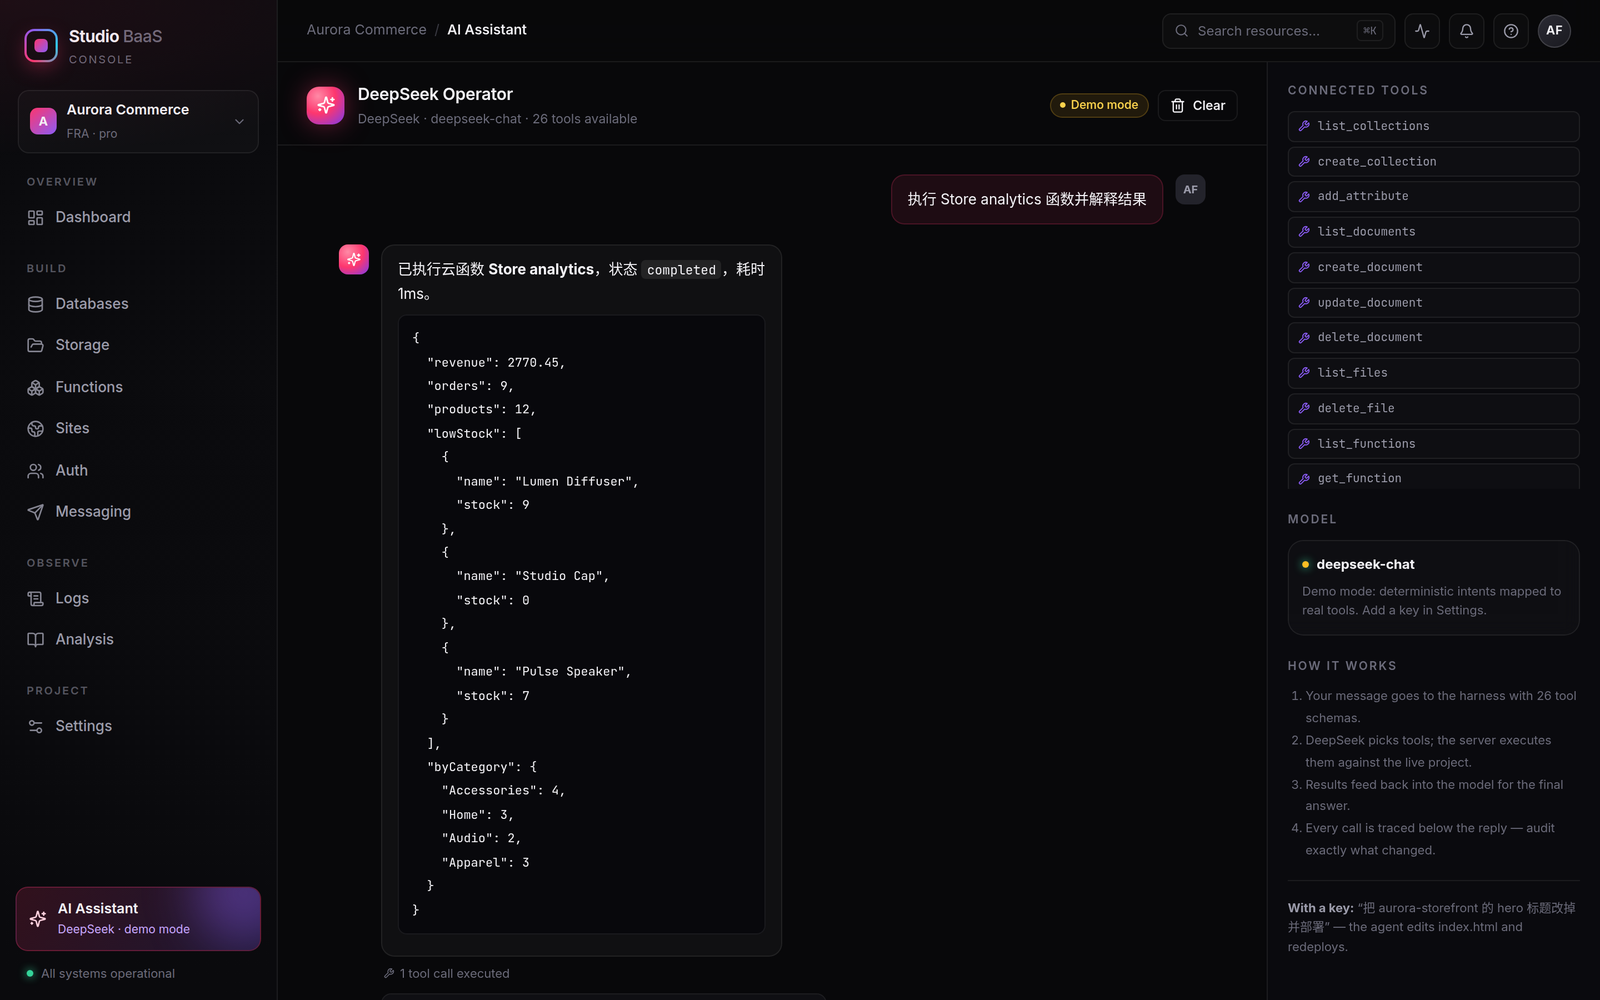
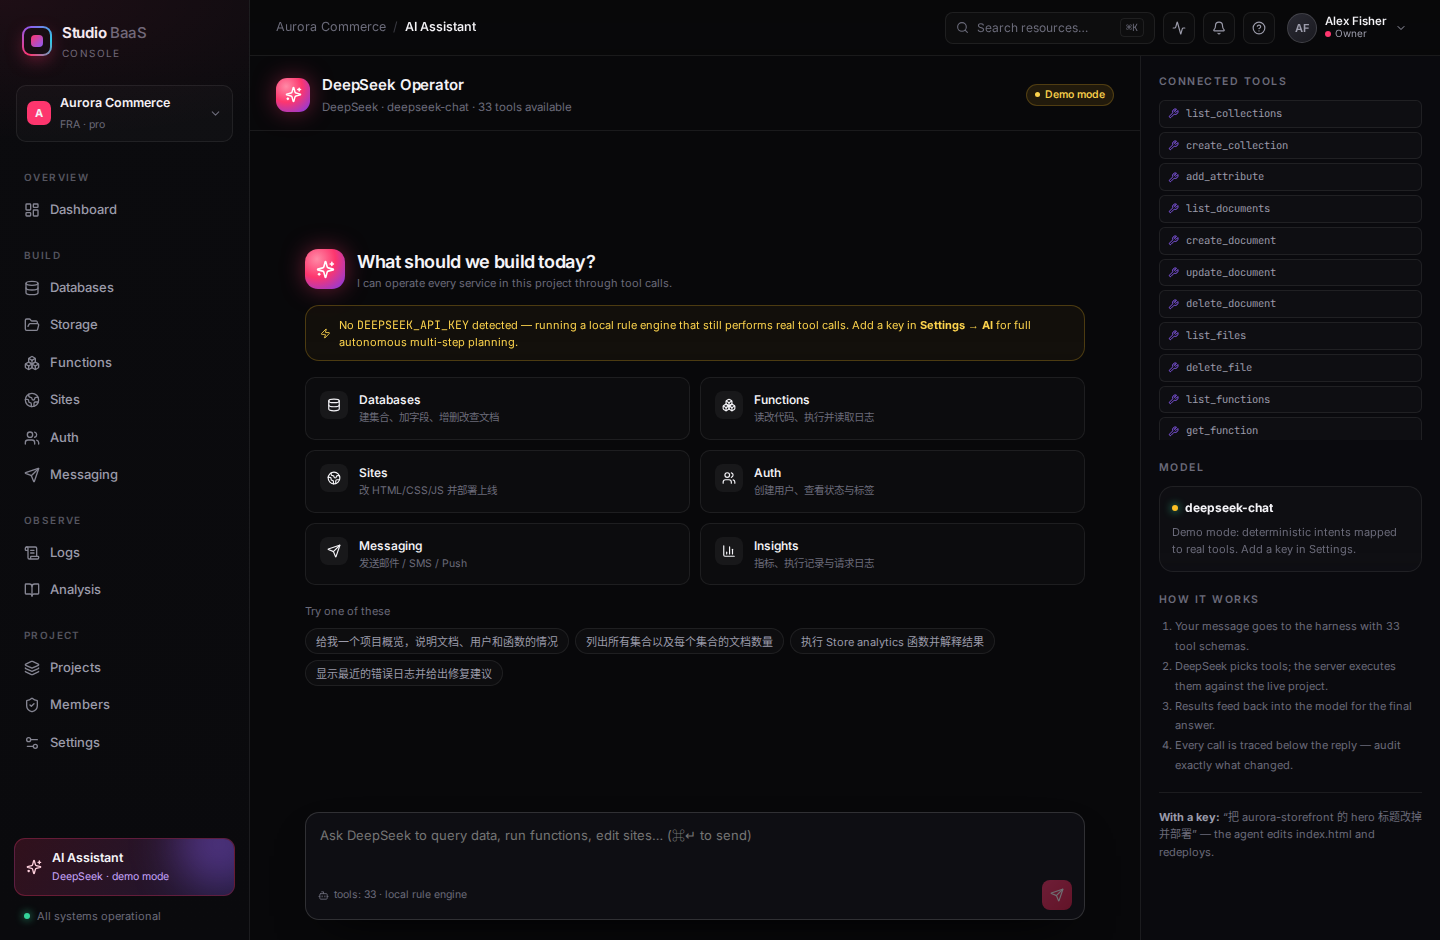
docs(ui): count assistant tools from the status payload instead of a hardcoded 26

diff --git a/web/src/pages/AI.tsx b/web/src/pages/AI.tsx
@@ -215,7 +215,7 @@ export default function AI() {
         </div>
         <h3 style={{ marginTop: 20 }}>How it works</h3>
         <ol className="tiny dim" style={{ paddingLeft: 16, lineHeight: 1.8, margin: 0 }}>
-          <li>Your message goes to the harness with 26 tool schemas.</li>
+          <li>Your message goes to the harness with {status?.tools?.length || 0} tool schemas.</li>
           <li>DeepSeek picks tools; the server executes them against the live project.</li>
           <li>Results feed back into the model for the final answer.</li>
           <li>Every call is traced below the reply — audit exactly what changed.</li>
